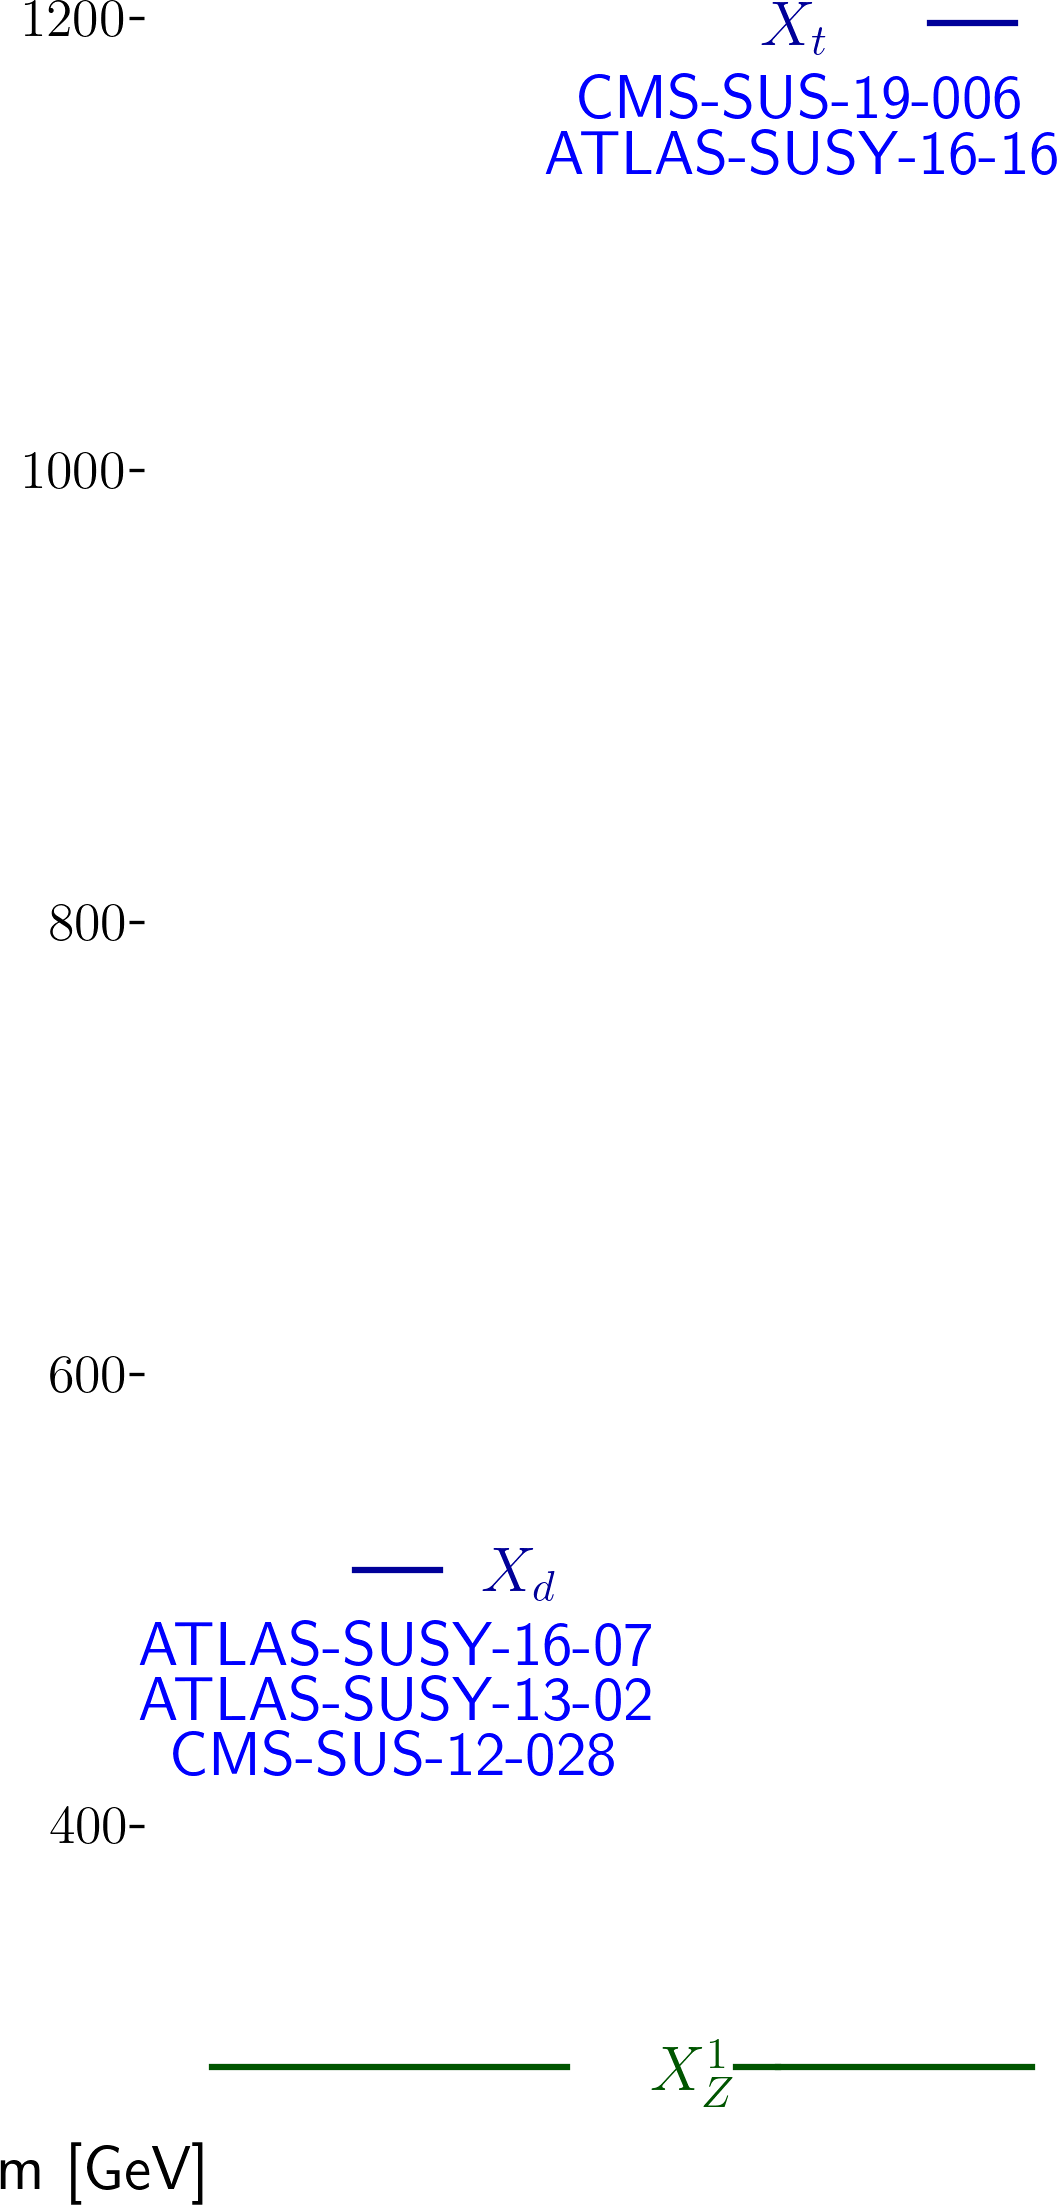
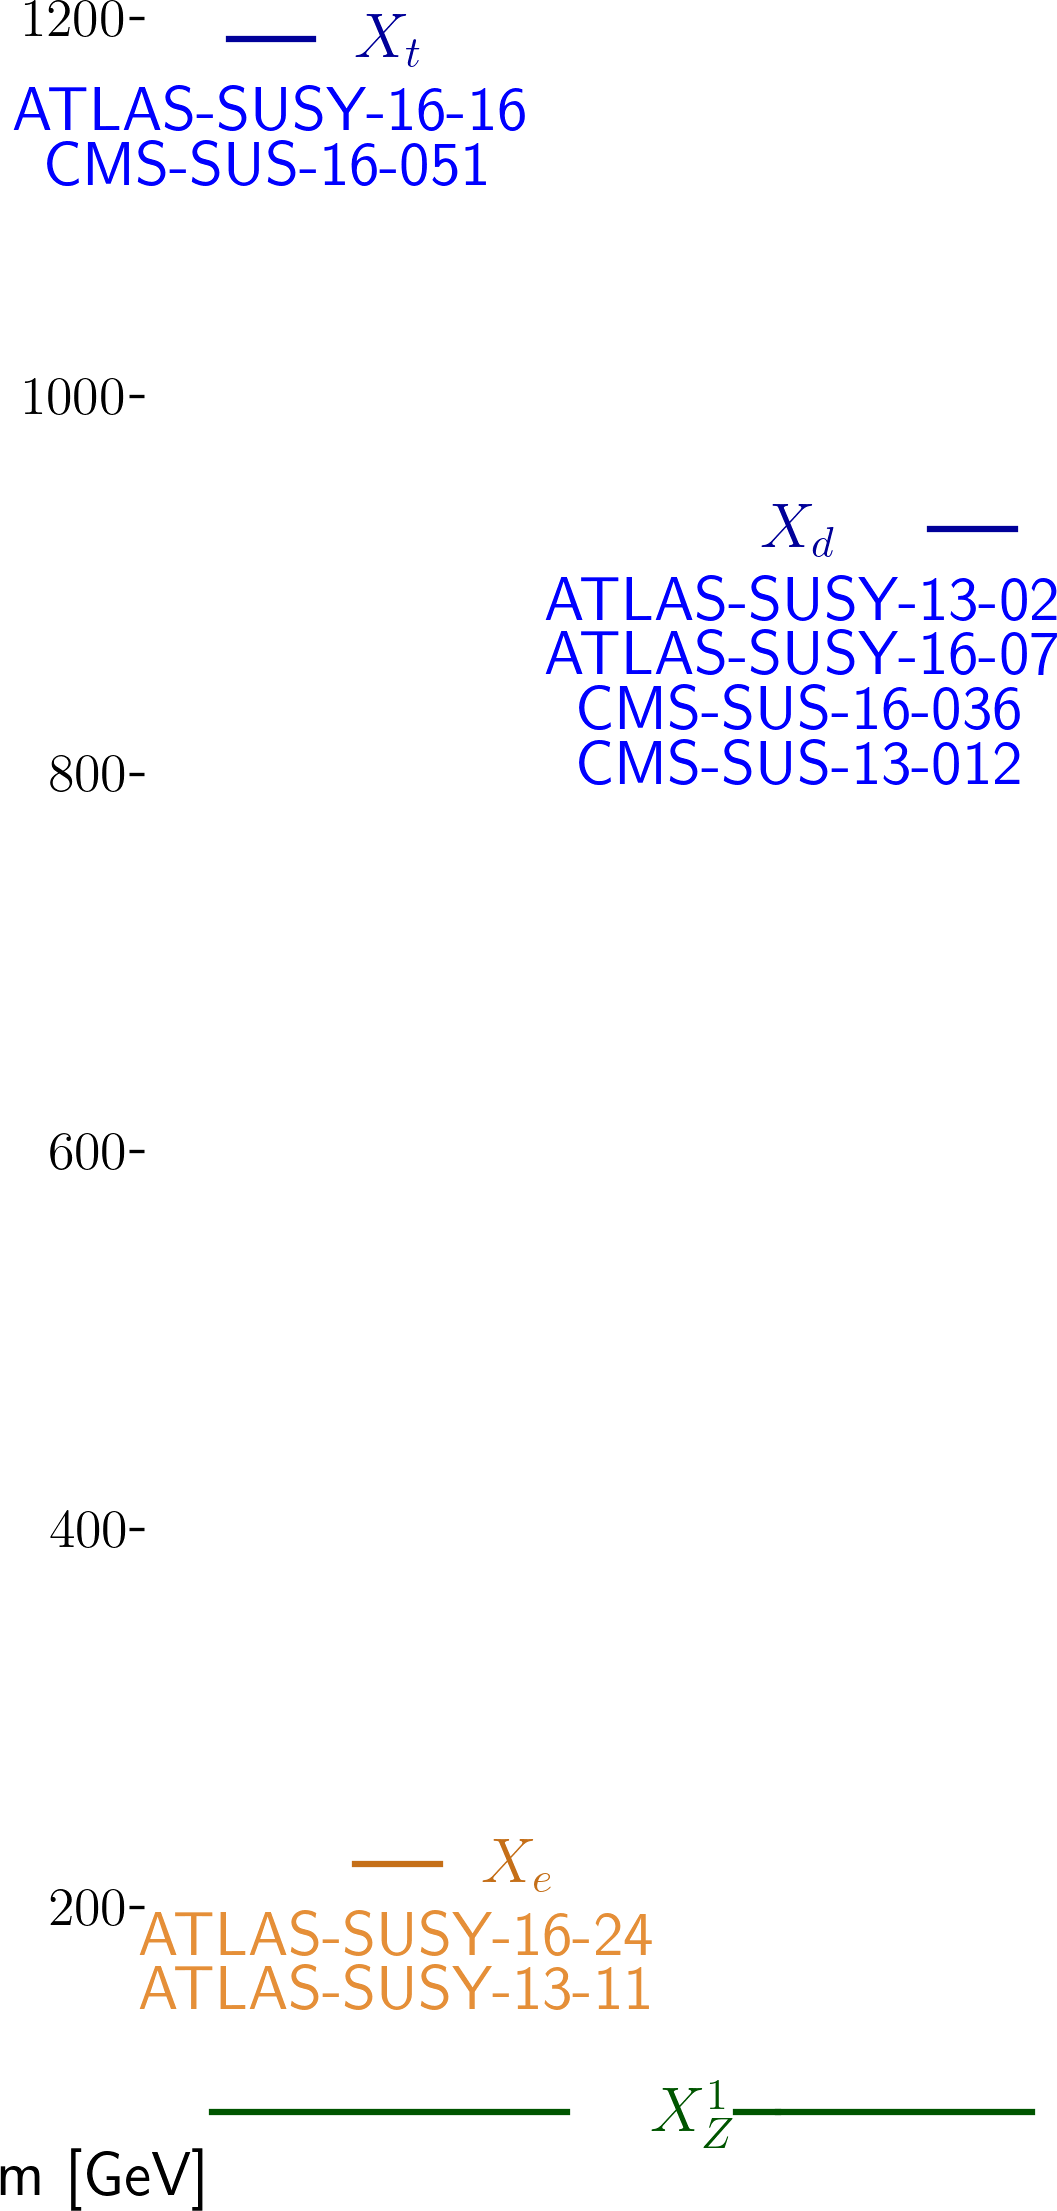
automated update by plotHiscore.py to /scratch-cbe/users/wolfgan.waltenberger/git/smodels.github.io/protomodels

diff --git a/protomodels/2020_PioneerStudy/closure_sampled7/index.html b/protomodels/2020_PioneerStudy/closure_sampled7/index.html
@@ -1,30 +1,33 @@
 <html>
 <body>
 <center>
-<table><td><h1>Current best protomodel: <i>K</i>=7.12</h1><td><img height=60px src=https://smodels.github.io/pics/banner.png></table>
+<table><td><h1>Current best protomodel: <i>K</i>=9.40</h1><td><img height=60px src=https://smodels.github.io/pics/banner.png></table>
 </center>
-<b><a href=./hiscore.slha>ProtoModel</a> <a href=./pmodel.py>(dict)</a> produced with <a href=https://smodels.github.io/docs/Validation124scaled7>database v1.2.4scaled7</a>, combination strategy <a href=./matrix_aggressive.png>aggressive</a> in walker 36 step 298.</b> <i>K</i> plots for: <a href=./M1000022.png?15051111>X<sub>Z</sub><sup>1</sup></a>, <a href=./M1000006.png?15051111>X<sub>t</sub></a>, <a href=./M1000001.png?15051111>X<sub>d</sub></a>. HPD plots for: <a href=./llhd1000006.png?15051111>X<sub>t</sub></a>, <a href=./llhd1000001.png?15051111>X<sub>d</sub></a>. SSM plots for: <a href=./ssm_-1000006_1000006.png?15051111>(x&#772;<sub>t</sub>,X<sub>t</sub>)</a><br>
+<b><a href=./hiscore.slha>ProtoModel</a> <a href=./pmodel.py>(dict)</a> produced with <a href=https://smodels.github.io/docs/Validation124scaled7>database v1.2.4scaled7</a>, combination strategy <a href=./matrix_aggressive.png>aggressive</a> in walker 44 step 787.</b> <i>K</i> plots for: <a href=./M1000022.png?15311773>X<sub>Z</sub><sup>1</sup></a>, <a href=./M1000006.png?15311773>X<sub>t</sub></a>, <a href=./M1000001.png?15311773>X<sub>d</sub></a>, <a href=./M1000011.png?15311773>X<sub>e</sub></a>. HPD plots for: <a href=./llhd1000006.png?15311773>X<sub>t</sub></a>, <a href=./llhd1000001.png?15311773>X<sub>d</sub></a>, <a href=./llhd1000011.png?15311773>X<sub>e</sub></a>. SSM plots for: <a href=./ssm_-1000006_1000006.png?15311773>(x&#772;<sub>t</sub>,X<sub>t</sub>)</a><br>
 <table width=80%>
 <tr><td>
-<br><b>22 predictions available. Highest r values are:</b><br><ul>
-<li><a href=http://cms-results.web.cern.ch/cms-results/public-results/publications/SUS-16-033/index.html>CMS-SUS-16-033</a>:T2 r=1.30, r<sub>exp</sub>=1.23<br>
-<li><a href=http://cms-results.web.cern.ch/cms-results/public-results/publications/SUS-16-036/index.html>CMS-SUS-16-036</a>:T2 r=1.20, r<sub>exp</sub>=1.08<br>
-<li><a href=https://atlas.web.cern.ch/Atlas/GROUPS/PHYSICS/PAPERS/SUSY-2016-07/>ATLAS-SUSY-2016-07</a>:T2 r=0.96, r<sub>exp</sub>=1.28<br>
-<li><a href=http://cms-results.web.cern.ch/cms-results/public-results/publications/SUS-16-036/index.html>CMS-SUS-16-036</a>:T2tt r=0.96, r<sub>exp</sub>=0.53<br>
-<li><a href=http://cms-results.web.cern.ch/cms-results/public-results/publications/SUS-16-050/index.html>CMS-SUS-16-050</a>:T2tt r=0.85, r<sub>exp</sub>=0.82<br>
+<br><b>32 predictions available. Highest r values are:</b><br><ul>
+<li><a href=https://cms-results.web.cern.ch/cms-results/public-results/publications/SUS-17-009/>CMS-SUS-17-009</a>:TSlepSlep r=1.30, r<sub>exp</sub>=0.66<br>
+<li><a href=https://atlas.web.cern.ch/Atlas/GROUPS/PHYSICS/PAPERS/SUSY-2016-07/>ATLAS-SUSY-2016-07</a>:T2 r=0.80, r<sub>exp</sub>=0.95<br>
+<li><a href=http://cms-results.web.cern.ch/cms-results/public-results/publications/SUS-19-006/index.html>CMS-SUS-19-006</a>:T2tt r=0.74, r<sub>exp</sub>=1.72<br>
+<li><a href=http://cms-results.web.cern.ch/cms-results/public-results/publications/SUS-16-050/index.html>CMS-SUS-16-050</a>:T2tt r=0.68, r<sub>exp</sub>=1.43<br>
+<li><a href=http://cms-results.web.cern.ch/cms-results/public-results/publications/SUS-16-049/index.html>CMS-SUS-16-049</a>:T2tt r=0.66, r<sub>exp</sub>=1.36<br>
 </ul>
 <td><br><b>K values without analyses: (contribution)</b><br>
 <ul>
-<li> <a href=https://atlas.web.cern.ch/Atlas/GROUPS/PHYSICS/PAPERS/SUSY-2013-02/>ATLAS-SUSY-2013-02</a>: 2.89 (15%)
-<li> <a href=http://cms-results.web.cern.ch/cms-results/public-results/publications/SUS-19-006/index.html>CMS-SUS-19-006</a>: 2.62 (16%)
-<li> <a href=https://twiki.cern.ch/twiki/bin/view/CMSPublic/PhysicsResultsSUS12028>CMS-SUS-12-028</a>: 2.62 (16%)
-<li> <a href=https://atlas.web.cern.ch/Atlas/GROUPS/PHYSICS/PAPERS/SUSY-2016-07/>ATLAS-SUSY-2016-07</a>: 0.08 (25%)
-<li> <a href=https://atlas.web.cern.ch/Atlas/GROUPS/PHYSICS/PAPERS/SUSY-2016-16/>ATLAS-SUSY-2016-16</a>: -1.28 (29%)
-<td><img width=600px src=./texdoc.png?1608051111>
-<br><font size=-1>Last updated: Tue Dec 15 17:51:51 2020</font>
+<li> <a href=http://cms-results.web.cern.ch/cms-results/public-results/publications/SUS-16-036/index.html>CMS-SUS-16-036</a>: 1.64 (11%)
+<li> <a href=http://cms-results.web.cern.ch/cms-results/public-results/publications/SUS-16-051/index.html>CMS-SUS-16-051</a>: 1.64 (11%)
+<li> <a href=https://twiki.cern.ch/twiki/bin/view/CMSPublic/PhysicsResultsSUS13012>CMS-SUS-13-012</a>: 1.64 (11%)
+<li> <a href=https://atlas.web.cern.ch/Atlas/GROUPS/PHYSICS/PAPERS/SUSY-2013-11/>ATLAS-SUSY-2013-11</a>: 1.64 (11%)
+<li> <a href=https://atlas.web.cern.ch/Atlas/GROUPS/PHYSICS/PAPERS/SUSY-2013-02/>ATLAS-SUSY-2013-02</a>: 1.39 (12%)
+<li> <a href=https://atlas.web.cern.ch/Atlas/GROUPS/PHYSICS/PAPERS/SUSY-2016-07/>ATLAS-SUSY-2016-07</a>: 1.33 (12%)
+<li> <a href=https://atlas.web.cern.ch/Atlas/GROUPS/PHYSICS/PAPERS/SUSY-2016-24/>ATLAS-SUSY-2016-24</a>: -0.66 (15%)
+<li> <a href=https://atlas.web.cern.ch/Atlas/GROUPS/PHYSICS/PAPERS/SUSY-2016-16/>ATLAS-SUSY-2016-16</a>: -1.64 (16%)
+<td><img width=600px src=./texdoc.png?1608311774>
+<br><font size=-1>Last updated: Fri Dec 18 18:16:14 2020</font>
 </table><table style="width:80%">
-<td width=45%><img height=580px src=./ruler.png?1608051111><td width=55%><img height=380px src=./decays.png?1608051111>
-<font size=-3><iframe type="text/html" height="220px" width="100%s" frameborder="0" src="./rawnumbers.html?1608051111"></iframe></font>
+<td width=45%><img height=580px src=./ruler.png?1608311774><td width=55%><img height=380px src=./decays.png?1608311774>
+<font size=-3><iframe type="text/html" height="220px" width="100%s" frameborder="0" src="./rawnumbers.html?1608311774"></iframe></font>
 </table>
 </body>
 </html>

diff --git a/protomodels/2020_PioneerStudy/closure_sampled7/rawnumbers.html b/protomodels/2020_PioneerStudy/closure_sampled7/rawnumbers.html
@@ -1,9 +1,12 @@
 <table>
 <tr><th>Analysis Name</th><th>Type</th><th>Dataset</th><th>Topos</th><th>Observed</th><th>Expected</th><th>Approx &sigma;</th><th>Particles</th><th>Signal</th>
 </tr>
-<tr><td><a href=https://atlas.web.cern.ch/Atlas/GROUPS/PHYSICS/PAPERS/SUSY-2013-02/>ATLAS-SUSY-2013-02</a></td><td>em</td> <td>SR6jtp</td><td>T2</td><td>4</td><td>4.9 +/- 1.6</td><td style="text-align:right">-0.3 &sigma;</td><td style="text-align:right">X<sub>d</sub></td><td style="text-align:right">0</td></tr>
-<tr><td><a href=https://atlas.web.cern.ch/Atlas/GROUPS/PHYSICS/PAPERS/SUSY-2016-07/>ATLAS-SUSY-2016-07</a></td><td>em</td> <td>2j_Meff_1200</td><td>T2</td><td>589</td><td>526 +/- 31</td><td style="text-align:right">1.6 &sigma;</td><td style="text-align:right">X<sub>d</sub></td><td style="text-align:right">35</td></tr>
+<tr><td><a href=https://atlas.web.cern.ch/Atlas/GROUPS/PHYSICS/PAPERS/SUSY-2013-02/>ATLAS-SUSY-2013-02</a></td><td>em</td> <td>SR6jtp</td><td>T2</td><td>10</td><td>4.9 +/- 1.6</td><td style="text-align:right">1.9 &sigma;</td><td style="text-align:right">X<sub>d</sub></td><td style="text-align:right">0</td></tr>
+<tr><td><a href=https://atlas.web.cern.ch/Atlas/GROUPS/PHYSICS/PAPERS/SUSY-2013-11/>ATLAS-SUSY-2013-11</a></td><td>em</td> <td>Zjets</td><td>TSlepSlep</td><td>4</td><td>1.4 +/- 0.6</td><td style="text-align:right">2.0 &sigma;</td><td style="text-align:right">X<sub>e</sub></td><td style="text-align:right">-</td></tr>
+<tr><td><a href=https://atlas.web.cern.ch/Atlas/GROUPS/PHYSICS/PAPERS/SUSY-2016-07/>ATLAS-SUSY-2016-07</a></td><td>em</td> <td>6j_Meff_1800</td><td>T2</td><td>8</td><td>5.1 +/- 1.8</td><td style="text-align:right">1.0 &sigma;</td><td style="text-align:right">X<sub>d</sub></td><td style="text-align:right">0</td></tr>
 <tr><td><a href=https://atlas.web.cern.ch/Atlas/GROUPS/PHYSICS/PAPERS/SUSY-2016-16/>ATLAS-SUSY-2016-16</a></td><td>em</td> <td>tN_high</td><td>T2tt</td><td>9</td><td>3.8 +/- 1</td><td style="text-align:right">2.4 &sigma;</td><td style="text-align:right">X<sub>t</sub></td><td style="text-align:right">4</td></tr>
-<tr><td><a href=https://twiki.cern.ch/twiki/bin/view/CMSPublic/PhysicsResultsSUS12028>CMS-SUS-12-028</a></td><td>ul</td> <td>-</td><td>T2</td><td> 713.1 fb </td><td> 564.5 fb</td><td style="text-align:right">0.5 &sigma;</td><td style="text-align:right">X<sub>d</sub></td><td style="text-align:right">2.66 fb</td></tr>
-<tr><td><a href=http://cms-results.web.cern.ch/cms-results/public-results/publications/SUS-19-006/index.html>CMS-SUS-19-006</a></td><td>ul</td> <td>-</td><td>T2tt</td><td> 4.8 fb </td><td> 2.2 fb</td><td style="text-align:right">2.3 &sigma;</td><td style="text-align:right">X<sub>t</sub></td><td style="text-align:right">2.62 fb</td></tr>
+<tr><td><a href=https://atlas.web.cern.ch/Atlas/GROUPS/PHYSICS/PAPERS/SUSY-2016-24/>ATLAS-SUSY-2016-24</a></td><td>em</td> <td>SR2-SF-loose</td><td>TSelSel</td><td>174</td><td>133 +/- 22</td><td style="text-align:right">1.7 &sigma;</td><td style="text-align:right">X<sub>e</sub></td><td style="text-align:right">-</td></tr>
+<tr><td><a href=https://twiki.cern.ch/twiki/bin/view/CMSPublic/PhysicsResultsSUS13012>CMS-SUS-13-012</a></td><td>ul</td> <td>-</td><td>T2</td><td> 9.9 fb </td><td> 7.3 fb</td><td style="text-align:right">0.7 &sigma;</td><td style="text-align:right">X<sub>d</sub></td><td style="text-align:right">2.66 fb</td></tr>
+<tr><td><a href=http://cms-results.web.cern.ch/cms-results/public-results/publications/SUS-16-036/index.html>CMS-SUS-16-036</a></td><td>ul</td> <td>-</td><td>T2</td><td> 35.0 fb </td><td> 11.1 fb</td><td style="text-align:right">4.2 &sigma;</td><td style="text-align:right">X<sub>d</sub></td><td style="text-align:right">23.95 fb</td></tr>
+<tr><td><a href=http://cms-results.web.cern.ch/cms-results/public-results/publications/SUS-16-051/index.html>CMS-SUS-16-051</a></td><td>ul</td> <td>-</td><td>T2tt</td><td> 6.9 fb </td><td> 4.3 fb</td><td style="text-align:right">1.2 &sigma;</td><td style="text-align:right">X<sub>t</sub></td><td style="text-align:right">2.62 fb</td></tr>
 </table>

diff --git a/protomodels/2020_PioneerStudy/closure_sampled7/pmodel.py b/protomodels/2020_PioneerStudy/closure_sampled7/pmodel.py
@@ -1,1 +1,1 @@
-{'masses': {1000022: 283.047, 1000006: 1187.942, 1000001: 503.397}, 'ssmultipliers': {(1000022, 1000022): 0.121, (1000006, 1000006): 1.129, (-1000006, 1000006): 1.129, (-1000006, -1000006): 1.129, (1000006, 1000022): 1.146, (-1000006, 1000022): 1.146, (1000001, 1000001): 0.711, (-1000001, 1000001): 0.711, (-1000001, -1000001): 0.711, (1000001, 1000022): 0.711, (-1000001, 1000022): 0.711, (1000001, 1000006): 0.711, (-1000001, 1000006): 0.711, (-1000006, 1000001): 0.711, (-1000006, -1000001): 0.711}, 'decays': {1000022: {}, 1000006: {(1000022, 6): 1.0}, 1000001: {(1000022, 1): 1.0}}, 'timestamp': 'Tue Dec 15 17:51:43 2020', 'Z': 3.271, 'K': 7.124, 'walkerid': 36, 'step': 298, 'codever': '1.0', 'dbver': '1.2.4scaled7'}
+{'masses': {1000022: 81.158, 1000006: 1178.935, 1000001: 919.722, 1000011: 212.87}, 'ssmultipliers': {(1000022, 1000022): 1.523, (1000006, 1000006): 1.466, (-1000006, 1000006): 1.885, (-1000006, -1000006): 1.466, (1000006, 1000022): 1.466, (-1000006, 1000022): 0.0, (1000001, 1000001): 1.16, (-1000001, 1000001): 1.16, (-1000001, -1000001): 1.16, (1000001, 1000022): 1.16, (-1000001, 1000022): 1.16, (1000001, 1000006): 1.16, (-1000001, 1000006): 1.16, (-1000006, 1000001): 1.16, (-1000006, -1000001): 1.16, (1000011, 1000011): 0.992, (-1000011, 1000011): 0.992, (-1000011, -1000011): 0.992, (1000011, 1000022): 0.992, (-1000011, 1000022): 0.992, (1000006, 1000011): 0.992, (-1000011, 1000006): 0.992, (-1000006, 1000011): 0.992, (-1000011, -1000006): 0.992, (1000001, 1000011): 0.992, (-1000011, 1000001): 0.992, (-1000001, 1000011): 0.992, (-1000011, -1000001): 0.992}, 'decays': {1000022: {}, 1000006: {(1000022, 6): 1.0}, 1000001: {(1000022, 1): 1.0}, 1000011: {(1000022, 11): 1.0}}, 'timestamp': 'Fri Dec 18 18:16:03 2020', 'Z': 3.801, 'K': 9.4, 'walkerid': 44, 'step': 787, 'codever': '1.0', 'dbver': '1.2.4scaled7'}
